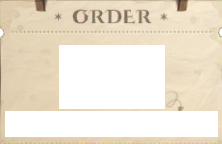
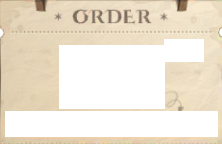
fix: fix the problem where mask doesn't work in color filter.

Changed region(s): [[0.7297, 0.25, 0.9189, 0.4444]]

diff --git a/AutoHPMA/Helpers/ImageHelper/ColorFilterHelper.cs b/AutoHPMA/Helpers/ImageHelper/ColorFilterHelper.cs
@@ -48,6 +48,19 @@ namespace AutoHPMA.Helpers.ImageHelper
             {
                 Mat grayMask = new Mat();
                 Cv2.CvtColor(maskMat, grayMask, ColorConversionCodes.BGR2GRAY);
+                // 将遮罩二值化
+                Cv2.Threshold(grayMask, grayMask, 127, 255, ThresholdTypes.Binary);
+                // 创建反遮罩
+                Mat maskInverse = new Mat();
+                Cv2.BitwiseNot(grayMask, maskInverse);
+                
+                // 创建黑色背景
+                Mat blackBg = new Mat(sourceMat.Size(), sourceMat.Type(), Scalar.Black);
+                
+                // 将遮罩区域设为黑色
+                Cv2.BitwiseAnd(blackBg, blackBg, resultMat, maskInverse);
+                
+                // 将非遮罩区域保留原图
                 Cv2.BitwiseAnd(sourceMat, sourceMat, resultMat, grayMask);
             }
 
